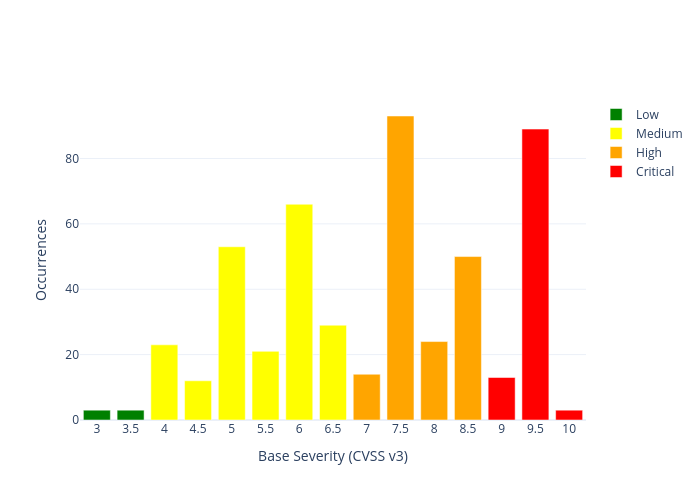
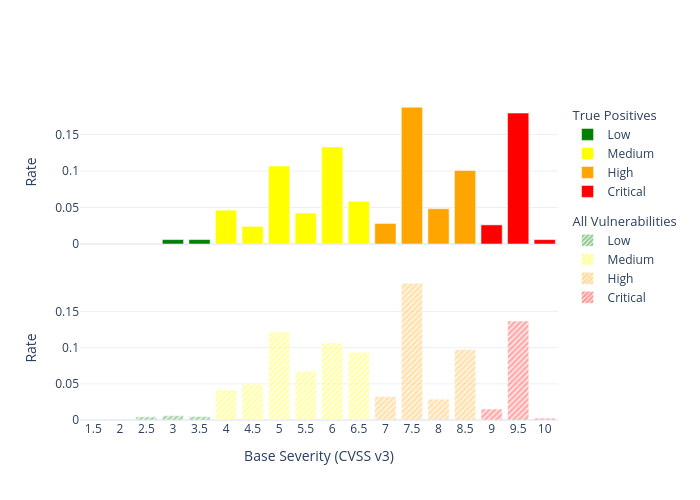
also show severity distribution in underlying vulnerabilities

diff --git a/eyeballvul_experiments/results.py b/eyeballvul_experiments/results.py
@@ -7,6 +7,7 @@ import plotly.graph_objects as go
 from confidenceinterval import f1_score, precision_score, recall_score
 from cvss import CVSS3
 from eyeballvul import EyeballvulItem, EyeballvulScore, get_vulns
+from plotly.subplots import make_subplots
 from tqdm import tqdm
 
 from eyeballvul_experiments.attempt import Attempt
@@ -608,26 +609,30 @@ def get_severity_score(vuln: EyeballvulItem) -> float | None:
     return None
 
 
-def get_severity_scores(vulns: list[EyeballvulItem]) -> dict[str, Any]:
-    cve_severities: dict[float, int] = {}
+def get_severity_stats(vulns: list[EyeballvulItem]) -> dict[str, Any]:
+    cve_severity_counts: dict[float, int] = {}
     no_severity = 0
     for vuln in tqdm(vulns):
         severity_score = get_severity_score(vuln)
         if severity_score:
-            cve_severities[severity_score] = cve_severities.get(severity_score, 0) + 1
+            cve_severity_counts[severity_score] = cve_severity_counts.get(severity_score, 0) + 1
         else:
             no_severity += 1
-    average = sum(value * count for value, count in cve_severities.items()) / sum(
-        cve_severities.values()
+    average = sum(value * count for value, count in cve_severity_counts.items()) / sum(
+        cve_severity_counts.values()
     )
-    fraction_critical = sum(count for value, count in cve_severities.items() if value >= 9) / sum(
-        cve_severities.values()
-    )
+    fraction_critical = sum(
+        count for value, count in cve_severity_counts.items() if value >= 9
+    ) / sum(cve_severity_counts.values())
+    cve_severity_fractions = {
+        value: count / sum(cve_severity_counts.values())
+        for value, count in cve_severity_counts.items()
+    }
     return {
         "no_severity": no_severity,
         "average": average,
         "fraction_critical": fraction_critical,
-        "values": dict(sorted(cve_severities.items())),
+        "values": dict(sorted(cve_severity_fractions.items())),
     }
 
 
@@ -642,9 +647,17 @@ def plot_cve_severities(instruction_template_hash: str):
             continue
         score = scores[0]
         cve_ids.update(set(score.mapping.values()))
-    vulns = [get_vulns(id=cve_id)[0] for cve_id in cve_ids]
-    results = get_severity_scores(vulns)
-    cve_severities = results["values"]
+    tp_vulns = [get_vulns(id=cve_id)[0] for cve_id in cve_ids]
+    tp_stats = get_severity_stats(tp_vulns)
+    tp_cve_severities = tp_stats["values"]
+    all_vulns = get_vulns()
+    all_stats = get_severity_stats(all_vulns)
+    all_cve_severities = all_stats["values"]
+    results = {
+        "tp": tp_stats,
+        "all": all_stats,
+    }
+
     with open(Config.paths.results / "cve_severities.json", "w") as f:
         json.dump(results, f, indent=2)
         f.write("\n")
@@ -659,36 +672,83 @@ def plot_cve_severities(instruction_template_hash: str):
         "Critical": "red",
     }
 
-    cve_severities_05: dict[float, int] = {}
-    for severity_score in cve_severities:
+    tp_cve_severities_05: dict[float, int] = {}
+    for severity_score in tp_cve_severities:
         bin = int(severity_score * 2) / 2
-        cve_severities_05[bin] = cve_severities_05.get(bin, 0) + cve_severities[severity_score]
+        tp_cve_severities_05[bin] = (
+            tp_cve_severities_05.get(bin, 0) + tp_cve_severities[severity_score]
+        )
+    all_cve_severities_05: dict[float, int] = {}
+    for severity_score in all_cve_severities:
+        bin = int(severity_score * 2) / 2
+        all_cve_severities_05[bin] = (
+            all_cve_severities_05.get(bin, 0) + all_cve_severities[severity_score]
+        )
 
-    fig = go.Figure()
-    df = pd.DataFrame(
+    fig = make_subplots(rows=2, cols=1, shared_xaxes=True, vertical_spacing=0.1)
+    tp_df = pd.DataFrame(
         {
-            "severity": list(cve_severities_05.keys()),
-            "occurrences": list(cve_severities_05.values()),
+            "severity": list(tp_cve_severities_05.keys()),
+            "occurrences": list(tp_cve_severities_05.values()),
         }
     )
-    df = df.sort_values("severity", ascending=True)
+    tp_df = tp_df.sort_values("severity", ascending=True)
+    all_df = pd.DataFrame(
+        {
+            "severity": list(all_cve_severities_05.keys()),
+            "occurrences": list(all_cve_severities_05.values()),
+        }
+    )
+    all_df = all_df.sort_values("severity", ascending=True)
 
     for category, color in severity_colors.items():
-        df_category = df[df["severity"].apply(get_severity_category) == category]
-        if not df_category.empty:
+        tp_category = tp_df[tp_df["severity"].apply(get_severity_category) == category]
+        all_category = all_df[all_df["severity"].apply(get_severity_category) == category]
+        if not tp_category.empty:
             fig.add_trace(
                 go.Bar(
-                    x=df_category["severity"],
-                    y=df_category["occurrences"],
+                    x=tp_category["severity"],
+                    y=tp_category["occurrences"],
                     name=category,
                     marker_color=color,
-                )
+                    legendgroup="tp",
+                    legendgrouptitle_text="True Positives",
+                ),
+                row=1,
+                col=1,
             )
-    fig.update_layout(
-        template="plotly_white",
-        xaxis={"title": "Base Severity (CVSS v3)", "nticks": len(cve_severities_05) + 1},
-        yaxis={"title": "Occurrences"},
-    )
+        if not all_category.empty:
+            fig.add_trace(
+                go.Bar(
+                    x=all_category["severity"],
+                    y=all_category["occurrences"],
+                    name=category,
+                    marker_color=color,
+                    opacity=0.8,
+                    marker={
+                        "color": color,
+                        "opacity": 0.8,
+                        "pattern": {
+                            "shape": "/",
+                            "bgcolor": "white",
+                            "fgcolor": color,
+                            "size": 4,
+                            "solidity": 0.7,
+                        },
+                    },
+                    legendgroup="all",
+                    legendgrouptitle_text="All Vulnerabilities",
+                ),
+                row=2,
+                col=1,
+            )
+    nticks = len(set(tp_cve_severities_05.keys() | set(all_cve_severities_05.keys()))) + 1
+    fig.update_layout(template="plotly_white")
+
+    fig.update_xaxes(title_text="Base Severity (CVSS v3)", nticks=nticks, row=2, col=1)
+    fig.update_yaxes(title_text="Rate", row=1, col=1)
+    fig.update_yaxes(title_text="Rate", row=2, col=1)
+
     fig.write_image(Config.paths.plots / "cve_severities.png")
 
 
